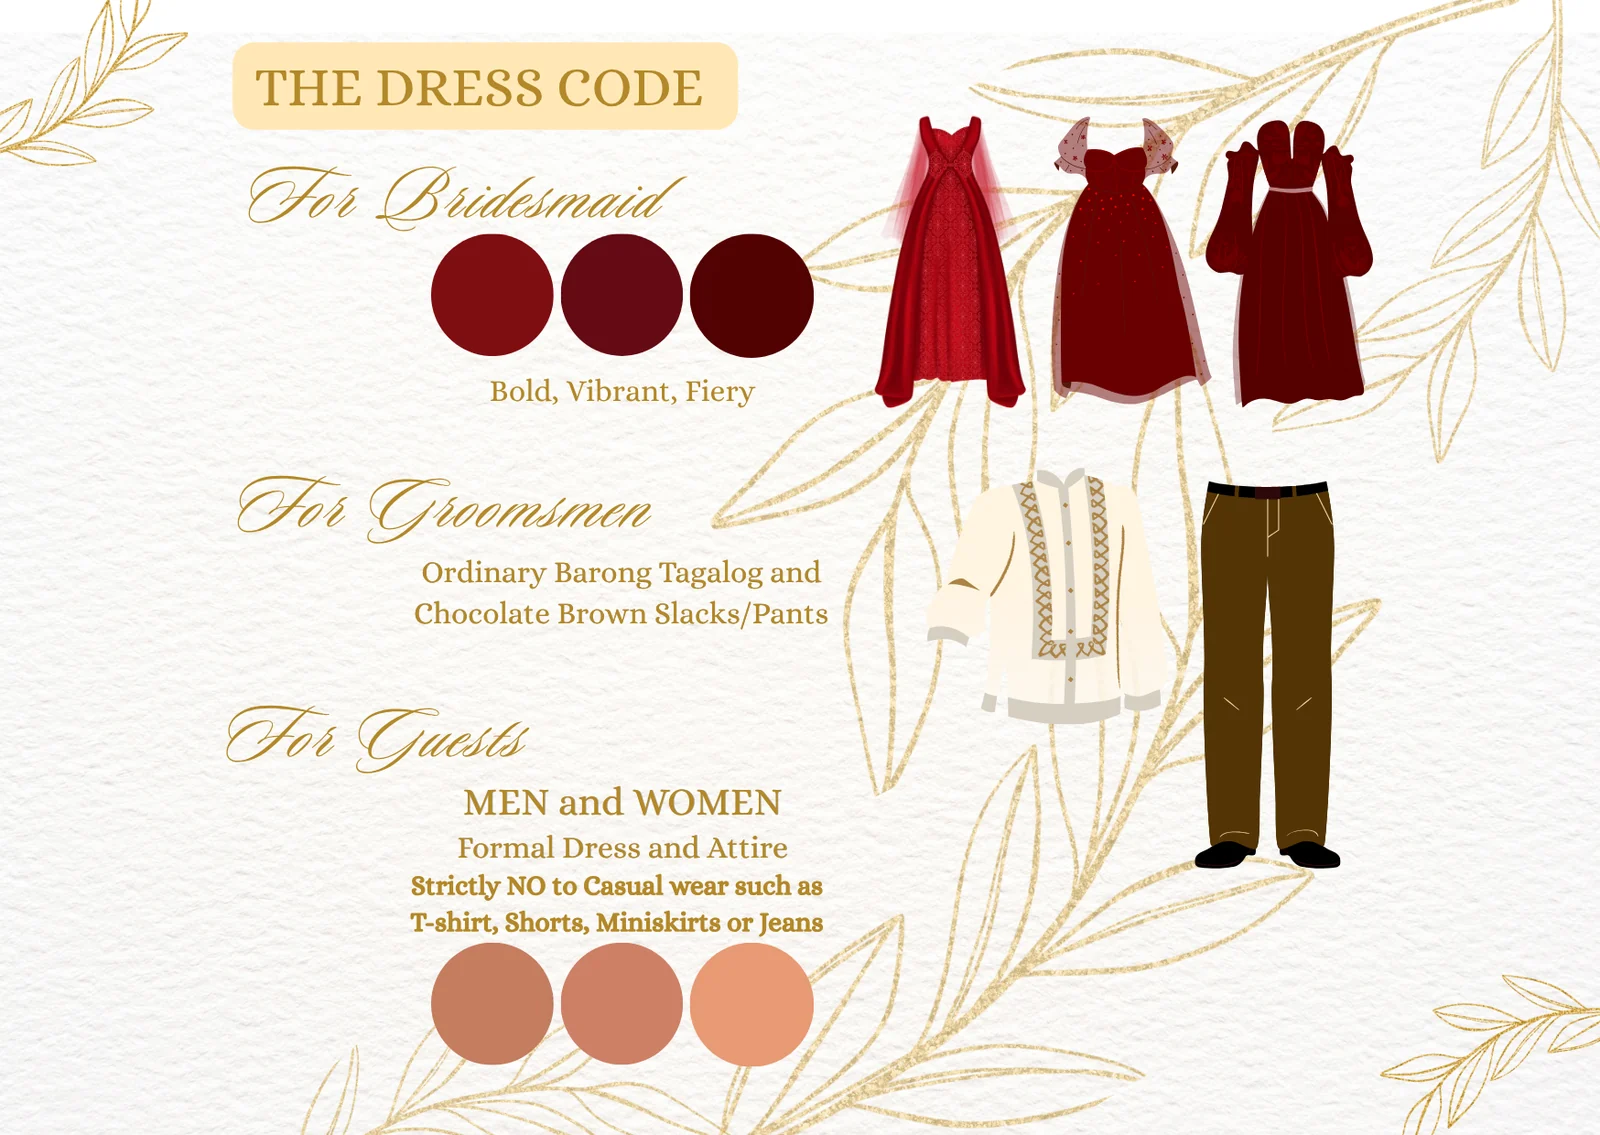
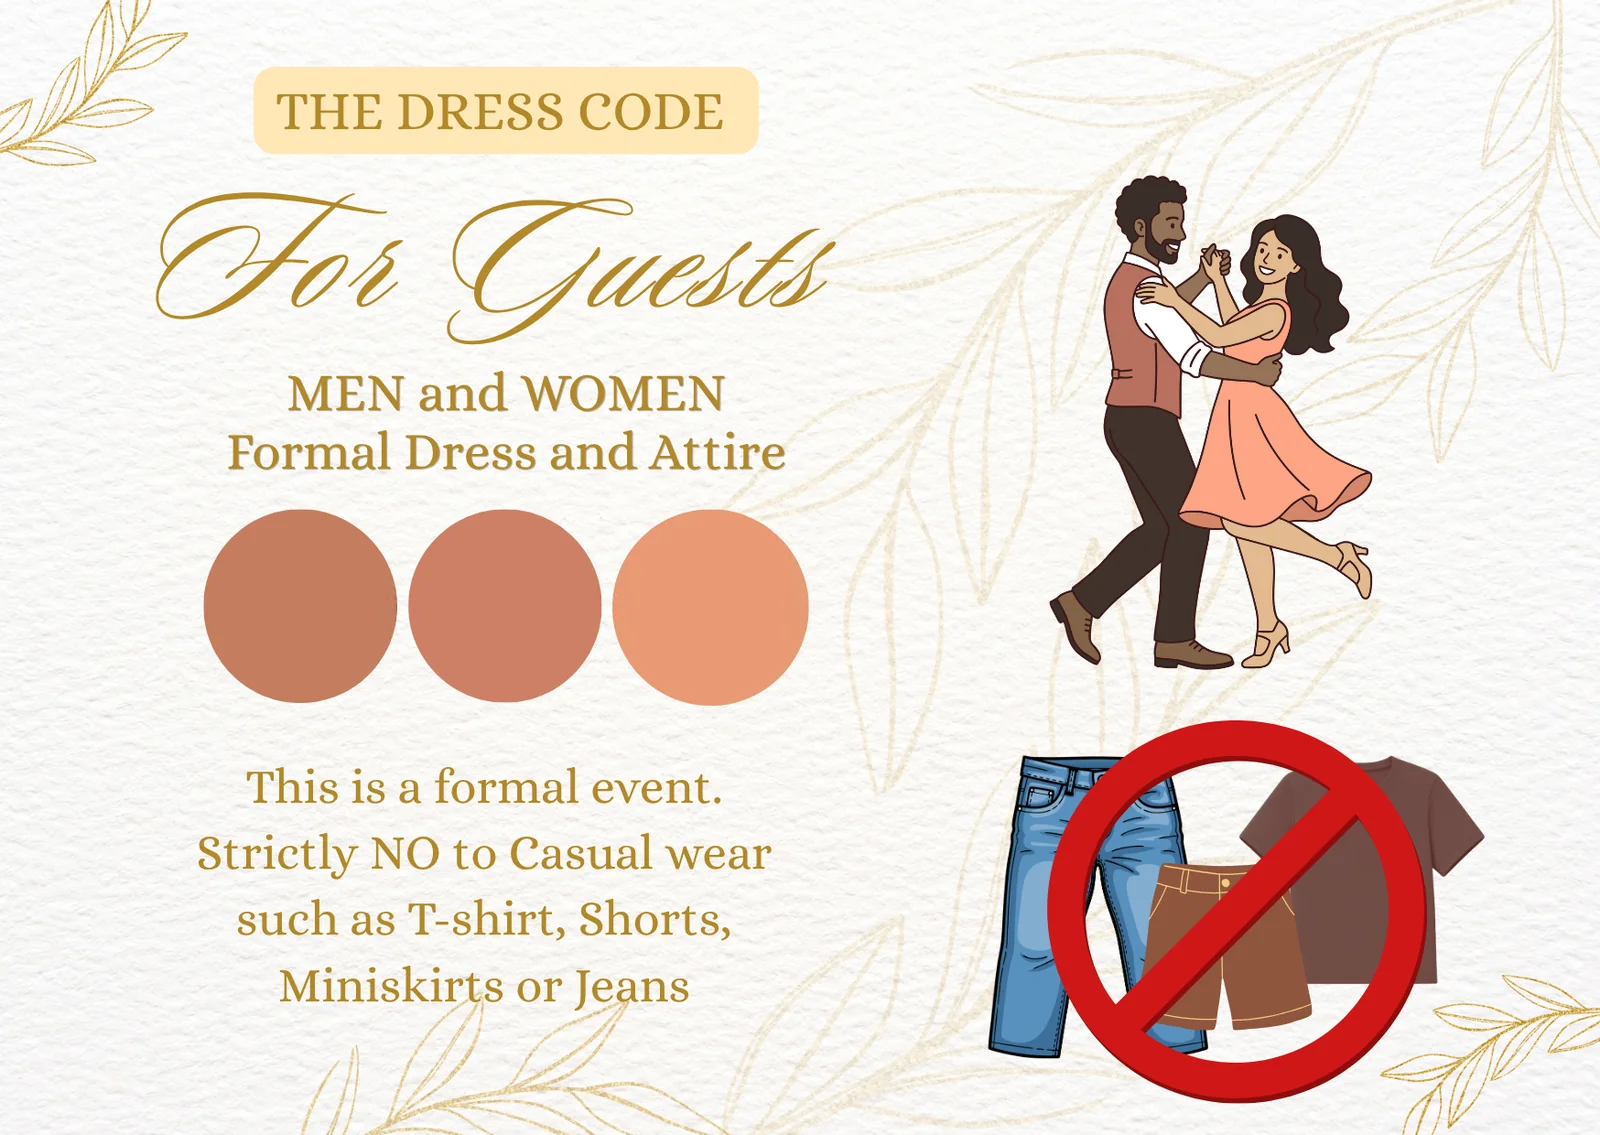
dresscodes

diff --git a/src/components/Highlights.tsx b/src/components/Highlights.tsx
@@ -1,6 +1,8 @@
+import { useState } from "react";
 import { motion } from "framer-motion";
 import { SectionHeading } from "./SectionHeading";
 import { MediaCarousel } from "./MediaCarousel";
+import { Lightbox } from "./Lightbox";
 import {
   FloralCorner,
   FloralDivider,
@@ -8,19 +10,31 @@ import {
   ROSE_STEM,
 } from "./decor/FloralAccents";
 import { wedding } from "../content/weddingContent";
+import type { MediaItem } from "../lib/supabase";
 
 const { story } = wedding;
 
-/* One reveal for the verse and one for the line it builds to, rather than a
-   fade on every stanza: the poem is one thought, and animating it a stanza
-   at a time turns reading it into waiting for it. */
-const reveal = {
-  initial: { opacity: 0, y: 24 },
-  whileInView: { opacity: 1, y: 0 },
-  transition: { duration: 0.9, ease: "easeOut" },
-} as const;
+/* What the picture says, for anyone who cannot see it. Kept as one string
+   with the author's line breaks intact: a screen reader is the only way a
+   blind guest gets this poem at all, so it is worth giving them his lines
+   rather than a paragraph. */
+const TRANSCRIPT = story.poem.map((stanza) => stanza.join("\n")).join("\n\n");
+
+/* The viewer takes a media row, and this is a bundled picture rather than an
+   uploaded one, so it is shaped like a row to borrow the same viewer the
+   gallery and the attire cards use. */
+const STORY_ITEM: MediaItem = {
+  id: "bundled-story",
+  category: "highlight",
+  media_type: "image",
+  url: story.image,
+  caption: "Our story",
+  sort_order: 0,
+};
 
 export function Highlights() {
+  const [zoomed, setZoomed] = useState(false);
+
   return (
     <section
       id="highlights"
@@ -46,68 +60,99 @@ export function Highlights() {
       <div className="relative mx-auto max-w-5xl">
         <SectionHeading script={story.script} title={story.title} />
 
-        {/* The poem, set as verse.
+        {/* The poem, as the couple drew it.
 
-            One element per line the author wrote, so two of his lines are
-            never re-flowed into one. Where a line outruns a phone,
-            text-balance halves it evenly instead of stranding a word, and
-            the leading inside a line is kept tighter than the gap between
-            lines — without that difference a runover is indistinguishable
-            from a break he actually made, which is the usual way verse on
-            the web stops reading as verse. */}
-        <motion.div
-          {...reveal}
-          viewport={{ once: true, amount: 0.15 }}
-          className="verse-ground mx-auto mt-14 max-w-3xl px-2 py-12 text-center sm:px-10 sm:py-16"
+            Mounted in the gold mat the attire cards and the hero photograph
+            use, for the same reason: the collage is a brown rectangle and
+            the letter is cream, so without a mat between them it reads as
+            something spilled on the page rather than laid on it.
+
+            Wider than the prose below it because the artwork is landscape
+            and its lines run nearly its full width — every pixel of column
+            is a pixel of legibility. */}
+        <motion.figure
+          initial={{ opacity: 0, y: 24 }}
+          whileInView={{ opacity: 1, y: 0 }}
+          viewport={{ once: true, amount: 0.2 }}
+          transition={{ duration: 0.9, ease: "easeOut" }}
+          className="mx-auto mt-14 max-w-4xl"
         >
-          {story.poem.map((stanza, index) => (
-            <p
-              key={stanza[0]}
-              className={`flex flex-col gap-3 font-body text-[clamp(1.0625rem,4.4vw,1.375rem)] leading-[1.35] text-ink ${
-                index > 0 ? "mt-10 sm:mt-12" : ""
-              }`}
-            >
-              {stanza.map((line) => (
-                <span key={line} className="text-balance">
-                  {line}
-                </span>
-              ))}
-            </p>
-          ))}
-        </motion.div>
+          <button
+            type="button"
+            onClick={() => setZoomed(true)}
+            className="frame-gold block w-full cursor-zoom-in"
+            aria-label="Our story, written out — open it full screen"
+          >
+            <span className="frame-gold-inner block">
+              <img
+                src={story.image}
+                alt={TRANSCRIPT}
+                loading="lazy"
+                width={1800}
+                height={1272}
+                className="block w-full"
+              />
+            </span>
+          </button>
 
-        <motion.div
-          {...reveal}
-          viewport={{ once: true, amount: 0.4 }}
-          className="mx-auto mt-6 max-w-3xl text-center"
+          {/* The artwork is landscape and densely set. On a phone it lands
+              near 300px wide, which puts the typewriting under 7px — far
+              past squinting. Say so plainly and hand them the viewer, the
+              way the attire cards already do. */}
+          <figcaption className="mt-4 text-center font-body text-base italic text-ink/70 sm:hidden">
+            Tap to read it full screen
+          </figcaption>
+        </motion.figure>
+
+        <motion.p
+          initial={{ opacity: 0, y: 20 }}
+          whileInView={{ opacity: 1, y: 0 }}
+          viewport={{ once: true, amount: 0.5 }}
+          transition={{ duration: 0.9, ease: "easeOut" }}
+          className="mx-auto mt-12 max-w-xl text-balance text-center font-body text-xl italic leading-relaxed text-maroon-900 sm:mt-14 sm:text-2xl"
         >
-          <span
-            aria-hidden="true"
-            className="mx-auto block h-px w-24 bg-gradient-to-r from-transparent via-gold-deep/70 to-transparent sm:w-32"
-          />
-
-          {/* The one line in Great Vibes on this whole section. Given room
-              below it because the face's descenders are long, and left free
-              to wrap — it is far too wide for a phone on one line. */}
-          <p className="foil mx-auto mt-10 max-w-2xl text-balance font-script text-[clamp(1.85rem,8vw,3rem)] leading-[1.5]">
-            {story.refrain}
-          </p>
-
-          <p className="mx-auto mt-7 max-w-xl text-balance font-body text-lg italic leading-relaxed text-ink/85 sm:text-xl">
-            {story.coda}
-          </p>
-        </motion.div>
+          {story.coda}
+        </motion.p>
 
         {/* The rule the author drew between his verse and his account of it. */}
         <FloralDivider className="mt-16 sm:mt-20" />
 
-        <motion.p
-          {...reveal}
-          viewport={{ once: true, amount: 0.3 }}
-          className="mx-auto mt-14 max-w-2xl text-center text-lg leading-relaxed text-ink/90 sm:text-xl"
+        {/* Six paragraphs, each set on its own and given a gap wider than
+            its own line spacing. Centred, like everything else on this
+            sheet, which a long unbroken run of text would not survive — but
+            these are two and three sentences each, so every one reads as its
+            own short block rather than as a slab with no left edge to find.
+
+            One reveal for the whole account, not one per paragraph: a fade
+            on each would turn reading it into waiting for it. */}
+        <motion.div
+          initial={{ opacity: 0, y: 20 }}
+          whileInView={{ opacity: 1, y: 0 }}
+          viewport={{ once: true, amount: 0.15 }}
+          transition={{ duration: 0.9, ease: "easeOut" }}
+          className="mx-auto mt-14 max-w-2xl space-y-6 text-center sm:space-y-7"
         >
-          {story.prose}
-        </motion.p>
+          {story.prose.map((paragraph, index) =>
+            index === story.prose.length - 1 ? (
+              // The landing. Taken up a step and into the maroon rather than
+              // given a device of its own: it is the last thing said before
+              // the photographs, and it should read as an ending.
+              <p
+                key={paragraph}
+                className="text-balance font-body text-xl leading-relaxed text-maroon-900 sm:text-2xl"
+              >
+                {paragraph}
+              </p>
+            ) : (
+              <p
+                key={paragraph}
+                className="text-lg leading-relaxed text-ink/90 sm:text-xl"
+              >
+                {paragraph}
+              </p>
+            ),
+          )}
+        </motion.div>
 
         <div className="mt-20 sm:mt-24">
           <h3 className="brush-underline text-center font-display text-2xl uppercase tracking-[0.2em] text-maroon-900 sm:text-3xl">
@@ -129,6 +174,8 @@ export function Highlights() {
           </div>
         </div>
       </div>
+
+      <Lightbox item={zoomed ? STORY_ITEM : null} onClose={() => setZoomed(false)} />
     </section>
   );
 }

diff --git a/src/content/weddingContent.ts b/src/content/weddingContent.ts
@@ -87,22 +87,25 @@ export const wedding = {
   },
 
   /* ---- The couple's story -------------------------------------- */
-  // Verse, and set as verse on the page. Every break below is the author's:
-  // Highlights draws one element per string, so the browser never re-flows
-  // two of his lines into one. Stanzas are the outer array, lines the inner.
+  // The poem is artwork now: a torn-paper collage set in typewriter, drawn
+  // by the couple and exported from assets-source/story.png. The lines below
+  // are a transcription of exactly what the picture says — they are what a
+  // screen reader reads out and what a search engine indexes, since neither
+  // can see the picture. Redraw the picture and these have to follow it.
   story: {
     script: "How it all began",
     title: "Our Story",
+    image: "/theme/story.webp",
     poem: [
       [
-        "On one Sunday night,",
-        "With the hymns of music around, and hearts ablazed,",
-        "Amidst the roaring crowd and blinding lights,",
-        "There he saw the lady in white as he heard the chiming of bells",
+        "On one Sunday night",
+        "With the hymns of music around and hearts ablazed",
+        "Amidst the roaring crowd and blinding lights",
+        "There he saw the lady donned in white as he heard the chiming of bells",
       ],
       [
         "Taking ahold of time, as precious as gold",
-        "When the moon is so high and the stars are shining bright,",
+        "When the moon is so high and the stars are shining bright",
         "A message from him, she received out of the blue",
         "He said his name, and she said hers back",
       ],
@@ -111,18 +114,29 @@ export const wedding = {
         "And yet, by God’s divine power, they both knew it was fate all along",
         "Two different persons, two different paths",
         "Two different generations and two different hearts",
+      ],
+      [
         "Yet with God in the center, and His hand joining theirs",
-        "Two worlds became one universe, and two heartbeats became one rhythm",
+        "Two worlds became one universe",
+        "Two heartbeats became one rhythm",
+        "A love story written by God, for both Jonmarck and Linneth",
       ],
     ],
-    // The one line in gold script. Everything above builds to it, and
-    // nothing else in the section is allowed to compete with it.
-    refrain: "A love story written by God, for both Jonmarck and Linneth.",
+    // Not in the picture — this is the line the page adds after it.
     coda:
       "More marvelous and adventurous tales will come along, as they now awaits their blessed union.",
-    // The plain account, after the verse — what actually happened that night.
-    prose:
-      "Jonmarck and Linneth’s paths first crossed unexpectedly following a church Youth event. At first, they were nothing more than strangers sharing the same space. But the moment Jonmarck saw Linneth, something shifted within him—an unmistakable realization that she was the one he had been waiting for. Taking a leap of faith, he made the first move and sent her a message. From that single spark, the rest of their beautiful story began to unfold.",
+    // The plain account, after the verse. An array because it is six
+    // paragraphs now, and Highlights sets each one as its own: run together
+    // as a single string they would print as one centred slab, and centred
+    // text that long is where the eye loses the start of each line.
+    prose: [
+      "For months, Jonmarck and Linneth existed in the same orbit, passing each other in every joint fellowships and youth events, sharing the same spaces. To Linneth, those were all ordinary days and activities. But to Jonmarck, the world had fundamentally shifted the exact moment he first saw her.",
+      "It wasn’t a sudden, loud realization, but rather a quiet, undeniable certainty that settled deep within him, a clear, resonant truth: she was the one he had been waiting for. Taking a leap of faith, he made the first move and sent her a message.",
+      "At first, they were nothing more than strangers sharing the same space. But from that single spark, the rest of their beautiful story began to unfold.",
+      "Years passed in a beautiful rhythm of patience, growth, and unconditional support. They walked through seasons of waiting, anchored by their faith and a shared vision for the future. Every prayer whispered in silence seemed to lead them to this very moment.",
+      "Now, the waiting is over. The melody that began with a quiet glance and a single message has swelled into a masterpiece.",
+      "Hand in hand, with grateful hearts, Jonmarck and Linneth stand in faith, ready to unfold the most beautiful chapter of their lives.",
+    ],
     // The photographs now sit under the story rather than carrying the
     // section on their own, so they get a heading of their own.
     galleryTitle: "Highlights",
@@ -229,9 +243,16 @@ export const wedding = {
           "The dress code for principal sponsors: barong and Filipiniana, champagne gold to taupe",
       },
       {
-        heading: "For Bridesmaid, Groomsmen, and Guests",
+        heading: "For Bridesmaid and Groomsmen",
+        src: "/theme/attire-bmaid-gmen.webp",
+        caption:
+          "The dress code for the wedding party. Bridesmaids: bold, vibrant, fiery — three shades of deep crimson and wine. Groomsmen: ordinary Barong Tagalog with chocolate brown slacks or pants.",
+      },
+      {
+        heading: "For Guests",
         src: "/theme/attire-guests.webp",
-        caption: "The dress code for bridesmaids, groomsmen and guests",
+        caption:
+          "The dress code for guests. Men and women in formal dress and attire, in terracotta and warm clay shades. This is a formal event — strictly no casual wear such as T-shirts, shorts, miniskirts or jeans.",
       },
     ],
     // The Highlights gallery. These ship with the site and appear ahead of

diff --git a/src/index.css b/src/index.css
@@ -171,20 +171,6 @@
     );
   }
 
-  /* The pool of warmer paper the poem is written in. Deliberately not a
-     card: a bordered block laid on the letter reads as a second sheet, and
-     the verse is written on this one. So there is no edge to find — the
-     wash fades to nothing well before the column does, and all it leaves is
-     a change in the light where the writing is. */
-  .verse-ground {
-    background-image: radial-gradient(
-      76% 60% at 50% 48%,
-      rgba(201, 160, 91, 0.17),
-      rgba(243, 227, 196, 0.44) 44%,
-      transparent 75%
-    );
-  }
-
   /* A deep red block laid on the letter, rather than a full-bleed band. */
   .letter-panel {
     border-radius: 20px 26px 18px 24px / 16px 20px 22px 17px;
